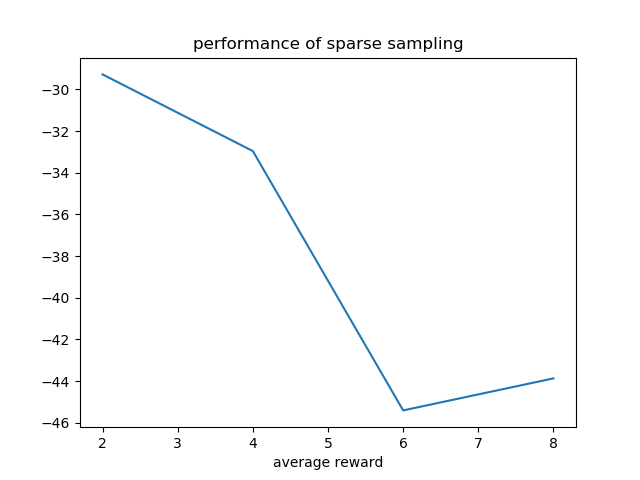
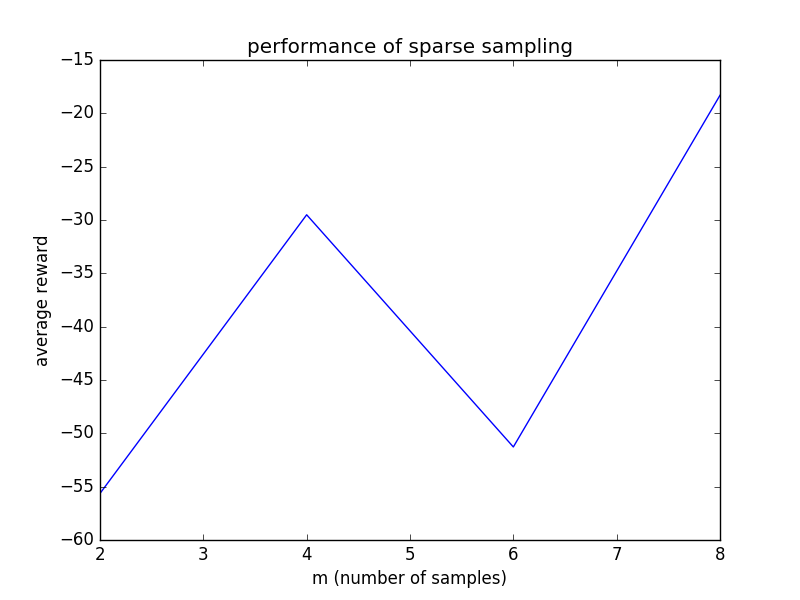
sparse sample results

diff --git a/src/sparse_sample.py b/src/sparse_sample.py
@@ -1,5 +1,10 @@
 from wildfire import FireGrid
 import numpy as np
+import os
+import matplotlib as mpl
+if os.environ.get('DISPLAY','') == '':
+    print('no display found. Using non-interactive Agg backend')
+    mpl.use('Agg')
 import matplotlib.pyplot as plt
 import itertools
 import copy
@@ -29,8 +34,8 @@ def sparse_sampling(A, grid, d, m=5, gamma=.95):
             best = (a, u)
     return best
 
-def simulate_sparse(n, m, num_sims=5, simulation_depth=10, d=4):
-    print(f'm = {m}')
+def simulate_sparse(n, m, num_sims=5, simulation_depth=10, d=2):
+    print('m = {}'.format(m))
     performance = []
     A = all_possible_actions(n)
     for i in range(num_sims):
